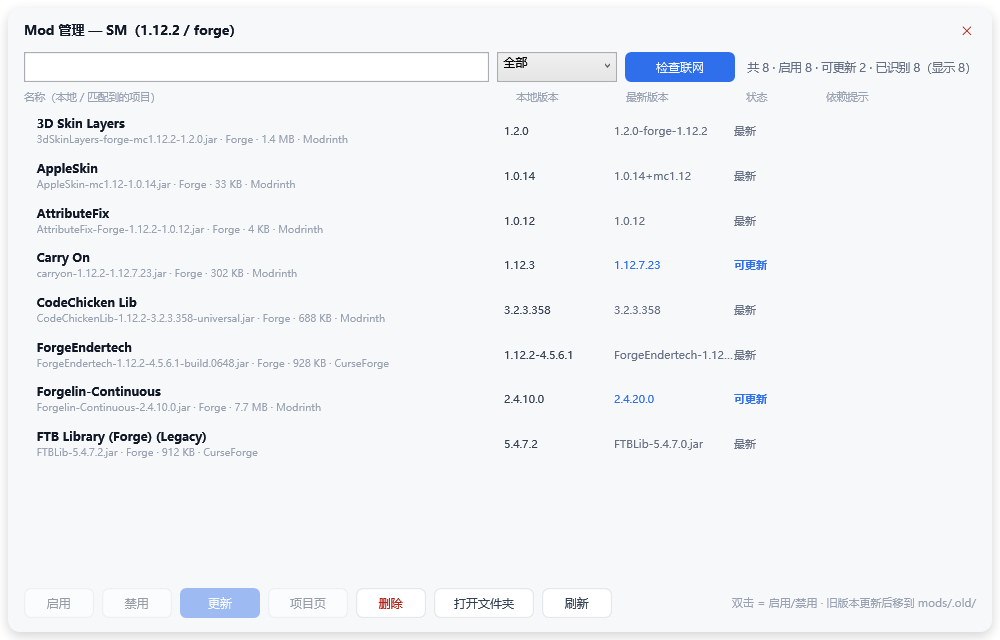
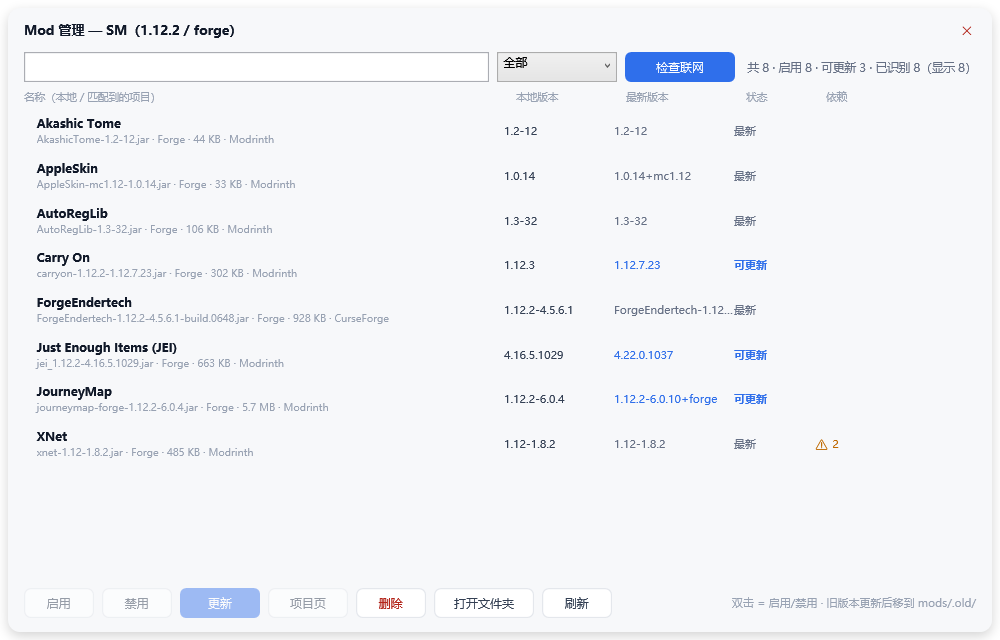
ui: dependency hints only on hover (warning count + tooltip); 1.9.2

diff --git a/app/ModsWindow.xaml b/app/ModsWindow.xaml
@@ -175,7 +175,7 @@
                 <TextBlock Grid.Column="1" Text="本地版本" FontSize="10.5" Foreground="{DynamicResource TextFaint}"/>
                 <TextBlock Grid.Column="2" Text="最新版本" FontSize="10.5" Foreground="{DynamicResource TextFaint}"/>
                 <TextBlock Grid.Column="3" Text="状态" FontSize="10.5" Foreground="{DynamicResource TextFaint}"/>
-                <TextBlock Grid.Column="4" Text="依赖提示" FontSize="10.5" Foreground="{DynamicResource TextFaint}"/>
+                <TextBlock Grid.Column="4" Text="依赖" FontSize="10.5" Foreground="{DynamicResource TextFaint}"/>
             </Grid>
 
             <ListBox x:Name="ModList" Grid.Row="3" Margin="16,0,16,0"

diff --git a/app/ModsWindow.xaml.cs b/app/ModsWindow.xaml.cs
@@ -195,20 +195,34 @@ namespace Mcroute
             Grid.SetColumn(st, 3);
             grid.Children.Add(st);
 
+            bool hasDepWarn = match != null && match.MissingDeps.Count > 0;
             var deps = new TextBlock
             {
-                Text = match == null ? "" : match.MissingText,
-                FontSize = 10,
+                Text = hasDepWarn ? "⚠ " + match.MissingDeps.Count : "",
+                FontSize = 11,
                 VerticalAlignment = VerticalAlignment.Center,
                 Foreground = new SolidColorBrush(Color.FromRgb(0xC0, 0x6A, 0x00)),
-                TextTrimming = TextTrimming.CharacterEllipsis,
+                Cursor = System.Windows.Input.Cursors.Help,
             };
+            if (hasDepWarn) deps.ToolTip = DepTooltip(match);
             Grid.SetColumn(deps, 4);
             grid.Children.Add(deps);
 
             var item = new ListBoxItem { Content = grid, Tag = m };
-            item.ToolTip = (match != null && !string.IsNullOrEmpty(match.Url)) ? match.Url : m.FilePath;
+            string tip = (match != null && !string.IsNullOrEmpty(match.Url)) ? match.Url : m.FilePath;
+            if (hasDepWarn) tip += "\n" + DepTooltip(match);
+            item.ToolTip = tip;
             return item;
+        }
+
+        /// <summary>依赖提示只在鼠标悬停时展开，避免每行都刷一大串。</summary>
+        private static string DepTooltip(ModMatch match)
+        {
+            if (match == null || match.MissingDeps.Count == 0) return "";
+            var sb = new System.Text.StringBuilder();
+            sb.Append("依赖未找到：").Append(string.Join("、", match.MissingDeps));
+            sb.Append("\n（按 Modrinth 元数据；整合包里常用替代实现，能正常加载就不用管）");
+            return sb.ToString();
         }
 
         private ModInfo Selected()
